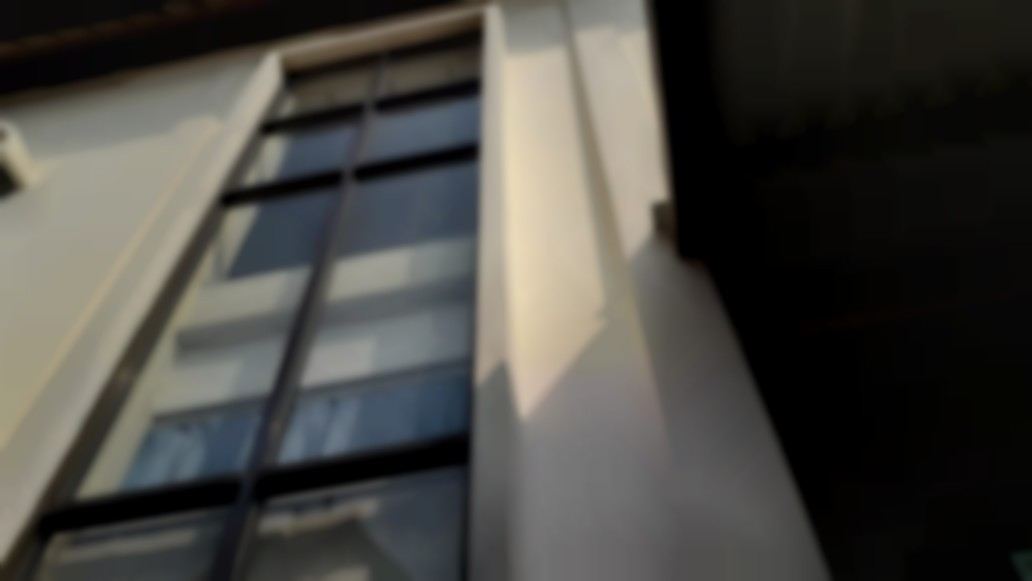
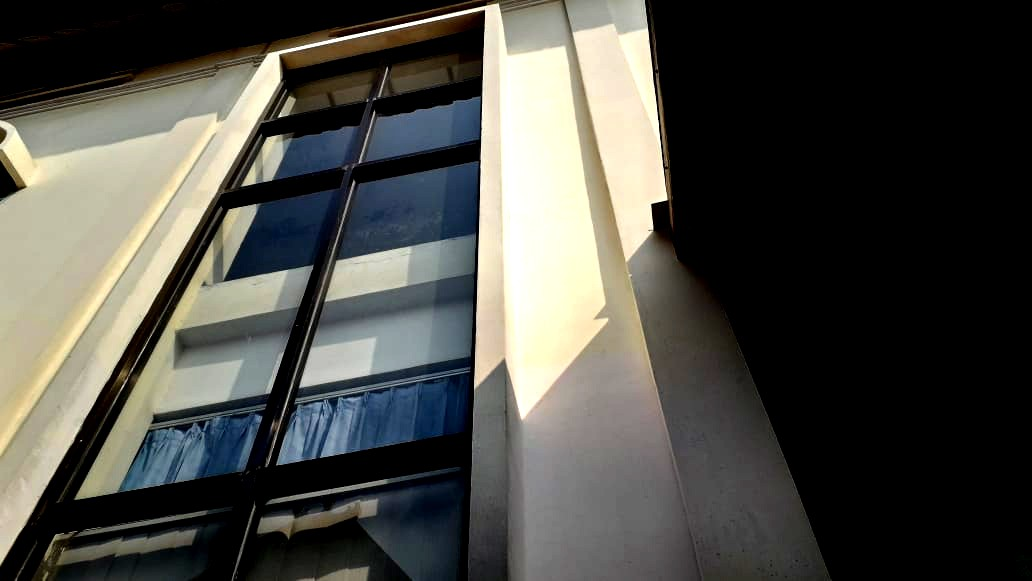
efek Contrast

diff --git a/app/Http/Livewire/Image/Main.php b/app/Http/Livewire/Image/Main.php
@@ -40,6 +40,17 @@ class Main extends Component
         return redirect(request()->header('Referer'));
     }
     
+    public function contrast($value){
+        $this->hapus_temporary($value);
+        
+        $img = Image::make('public/'.$value);
+        $img->contrast(35);
+        $img->save('public/temporary/'.'temp_'.$value);
+        
+        Session::flash('pesan-berhasil', 'Gambar berhasil diubah');
+        return redirect(request()->header('Referer'));
+    }
+    
     public function render()
     {
         return view('livewire.image.main');
